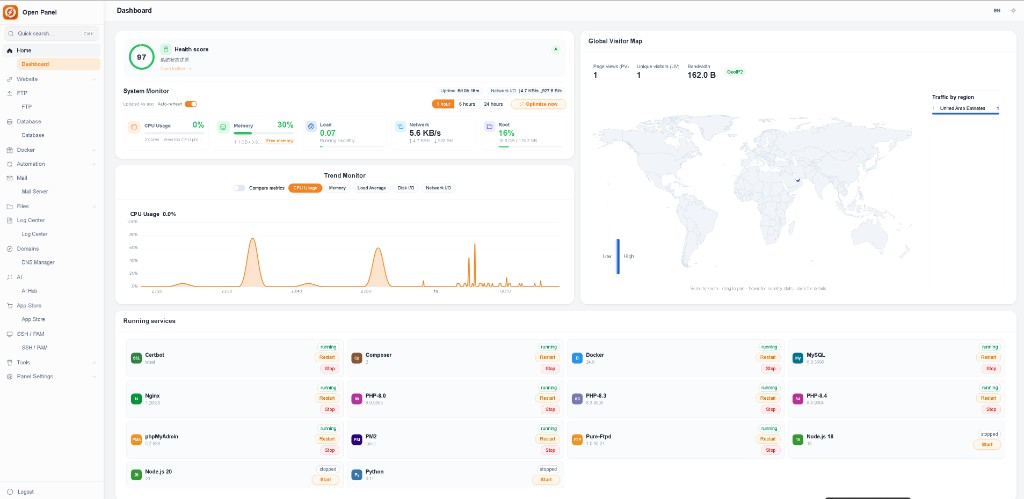
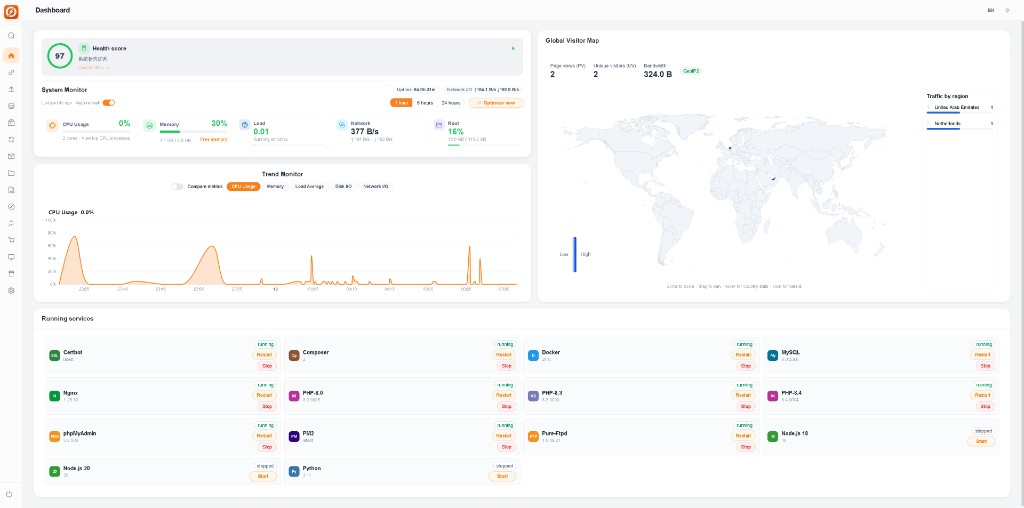
Add HD screenshots and emphasize automation and decentralization in README.

diff --git a/README.md b/README.md
@@ -1,29 +1,38 @@
 <h1 align="center">Open Panel</h1>
 
 <p align="center">
-  Open-source Linux server management panel
+  Self-hosted · Decentralized · Automated Linux server management
 </p>
-
-<p align="center">
-  <img src="docs/images/dashboard.png" alt="Open Panel dashboard" width="900" />
-</p>
-
-<p align="center"><em>Dashboard preview</em></p>
 
 ---
 
-Open Panel is a self-hosted web panel for managing Linux servers — websites, databases, Docker, security, and more from one place.
+Open Panel is a **self-hosted**, **decentralized** control plane for your own Linux servers. No vendor lock-in, no central cloud — you run the panel on your machine, your data stays on your machine. Built-in **automation** handles backups, cron jobs, service restarts, log analysis, and AI-assisted ops so you spend less time on repetitive tasks.
 
 ### Highlights
 
-- **Dashboard** — Live metrics, health score, and global traffic map
-- **Websites** — Nginx vhosts, SSL, CDN cache, WordPress toolkit
-- **Databases** — MySQL, PostgreSQL, Redis, backup and restore
-- **Docker** — Containers, images, and one-click Compose apps
-- **Security** — Firewall, Nginx WAF, login audit, 2FA
-- **SSH / AI** — Web terminal with AI assistant and asset management
+- **Decentralized by design** — Single binary on your server; no external account or control plane required
+- **Automated operations** — Scheduled backups, cron templates, one-click service control, auto log cleanup
+- **Smart dashboard** — Live metrics, health score, traffic map, and running-service overview
+- **AI-assisted ops** — Built-in AI for log analysis, SSH terminal help, and site/project workflows
+- **Full stack control** — Websites, databases, Docker, firewall/WAF, FTP, mail, DNS from one UI
 
-Built with **Go** (backend) and **Vue 3** (frontend). Single binary, embedded UI, systemd service.
+Built with **Go** + **Vue 3**. Embedded web UI, systemd service, Linux only.
+
+### Dashboard
+
+Real-time health, resource trends, global traffic, and one place to start/stop/restart every installed service.
+
+<p align="center">
+  <img src="docs/images/dashboard.png" alt="Open Panel dashboard — health score, metrics, traffic map, running services" width="920" />
+</p>
+
+### Log Center & AI
+
+Centralized logs across panel, system, websites, CDN, and WAF — with **AI analysis** to spot errors and suggest fixes. Auto-refresh, retention policies, and automated cleanup.
+
+<p align="center">
+  <img src="docs/images/log-center-ai.png" alt="Log Center with AI assistant and service log shortcuts" width="920" />
+</p>
 
 ### Install
 
@@ -33,7 +42,7 @@ Ubuntu, Debian, CentOS, Rocky, or AlmaLinux:
 curl -fsSL https://raw.githubusercontent.com/luuuunet/open-panel/main/scripts/install.sh | sudo bash
 ```
 
-Or clone and install from source:
+Or from source:
 
 ```bash
 git clone https://github.com/luuuunet/open-panel.git
@@ -41,11 +50,11 @@ cd open-panel
 sudo bash scripts/install.sh
 ```
 
-Open `http://YOUR_SERVER_IP:8888` — default user `admin`, password in `data/INITIAL_CREDENTIALS.txt` on the server.
+Open `http://YOUR_SERVER_IP:8888` — user `admin`, password in `data/INITIAL_CREDENTIALS.txt`.
 
 ### Documentation
 
-Full user guide: [docs/en/USER_GUIDE.md](docs/en/USER_GUIDE.md)
+[docs/en/USER_GUIDE.md](docs/en/USER_GUIDE.md)
 
 ### License
 